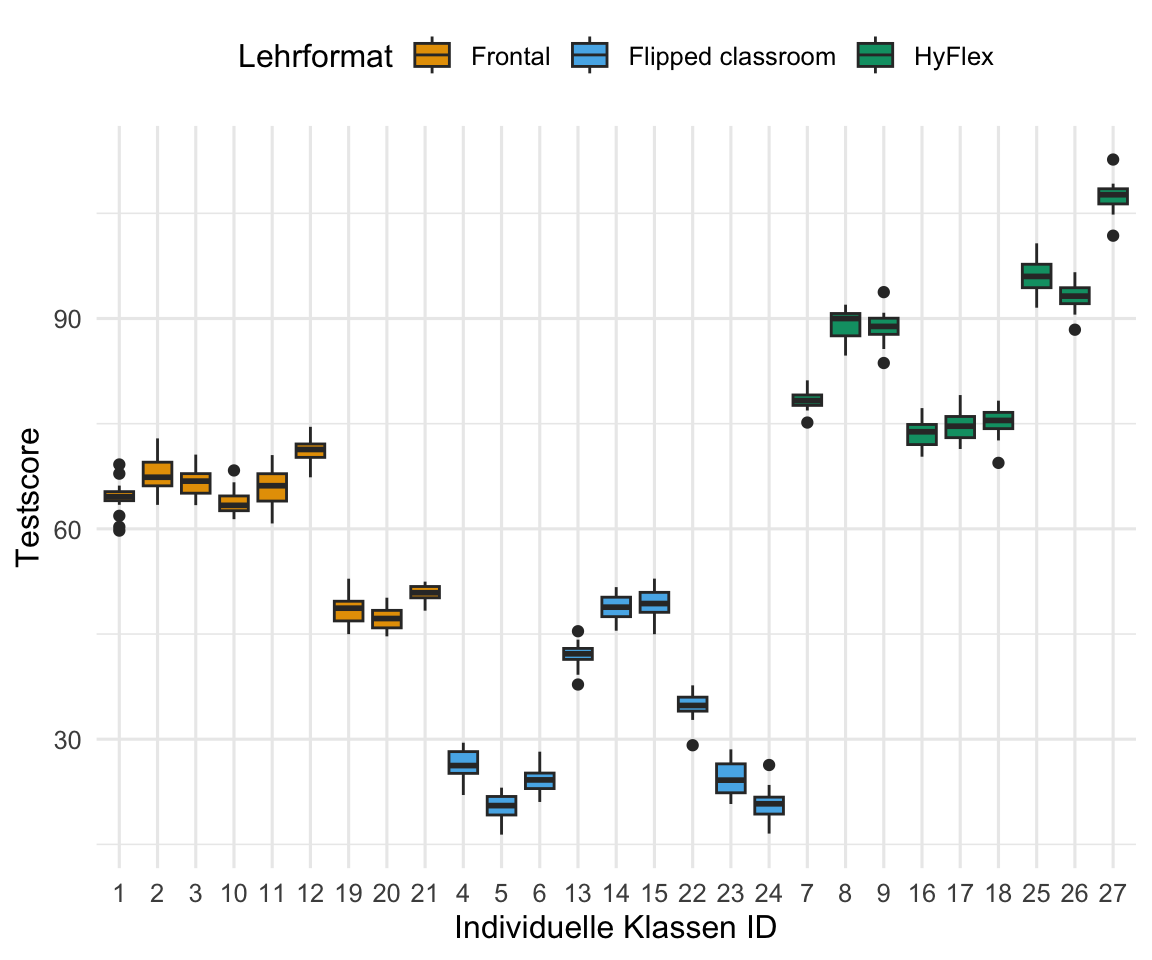
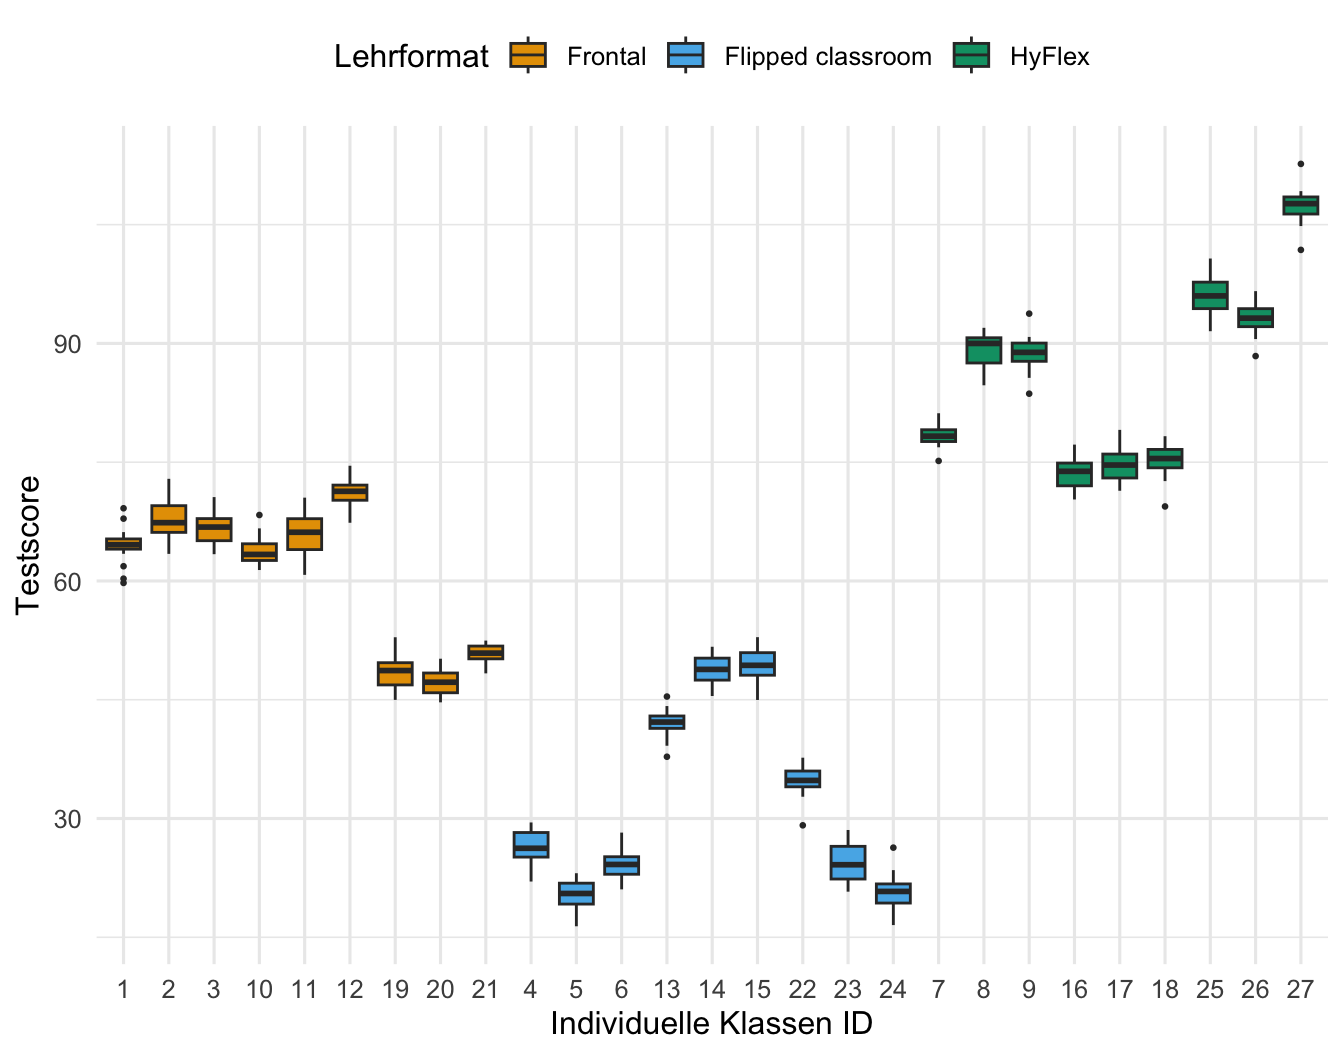
better figures

diff --git a/docs/stat-modeling-mixed.html b/docs/stat-modeling-mixed.html
@@ -751,7 +751,7 @@ div.csl-indent {
 
 </header>
 
-<p><em>Letzte Änderung am 10. December 2023 um 12:58:22</em></p>
+<p><em>Letzte Änderung am 10. December 2023 um 13:15:44</em></p>
 <blockquote class="blockquote">
 <p><em>“Wer die Arbeit kennt und sich nicht drückt, der ist verrückt.” — Tick, Trick und Track</em></p>
 </blockquote>
@@ -1346,7 +1346,7 @@ Generierung von Schuldaten (3-faktoriell)
 <div class="cell-output-display">
 <div id="fig-mixed-school-1" class="quarto-figure quarto-figure-center anchored">
 <figure class="figure">
-<p><img src="stat-modeling-mixed_files/figure-html/fig-mixed-school-1-1.png" class="img-fluid figure-img" width="480"></p>
+<p><img src="stat-modeling-mixed_files/figure-html/fig-mixed-school-1-1.png" class="img-fluid figure-img" width="672"></p>
 <figcaption class="figure-caption">Abbildung&nbsp;49.5— Histogramm des Testscores über alle Datenpunkte zur Überprüfung der Annahme der Normalverteilung. Wir sehen eine approximative Normalverteilung des Testscores.</figcaption>
 </figure>
 </div>
@@ -1365,7 +1365,7 @@ Generierung von Schuldaten (3-faktoriell)
 <div class="cell-output-display">
 <div id="fig-mixed-school-3" class="quarto-figure quarto-figure-center anchored">
 <figure class="figure">
-<p><img src="stat-modeling-mixed_files/figure-html/fig-mixed-school-3-1.png" class="img-fluid figure-img" width="480"></p>
+<p><img src="stat-modeling-mixed_files/figure-html/fig-mixed-school-3-1.png" class="img-fluid figure-img" width="672"></p>
 <figcaption class="figure-caption">Abbildung&nbsp;49.6— Histogramm des Testscores über alle Datenpunkte zur Überprüfung der Annahme der Normalverteilung. Wir sehen eine approximative Normalverteilung des Testscores.</figcaption>
 </figure>
 </div>
@@ -1373,14 +1373,14 @@ Generierung von Schuldaten (3-faktoriell)
 </div>
 <div class="cell" data-layout-align="center">
 <div class="sourceCode cell-code" id="cb10"><pre class="sourceCode r code-with-copy"><code class="sourceCode r"><span id="cb10-1"><a href="#cb10-1" aria-hidden="true" tabindex="-1"></a><span class="fu">ggplot</span>(school_tbl, <span class="fu">aes</span>(<span class="at">x =</span> class_id, <span class="at">y =</span> test, <span class="at">fill =</span> trt)) <span class="sc">+</span></span>
-<span id="cb10-2"><a href="#cb10-2" aria-hidden="true" tabindex="-1"></a>  <span class="fu">geom_boxplot</span>() <span class="sc">+</span></span>
+<span id="cb10-2"><a href="#cb10-2" aria-hidden="true" tabindex="-1"></a>  <span class="fu">geom_boxplot</span>(<span class="at">outlier.size =</span> <span class="fl">0.5</span>) <span class="sc">+</span></span>
 <span id="cb10-3"><a href="#cb10-3" aria-hidden="true" tabindex="-1"></a>  <span class="fu">labs</span>(<span class="at">x =</span> <span class="st">"Individuelle Klassen ID"</span>, <span class="at">y =</span> <span class="st">"Testscore"</span>, <span class="at">fill =</span> <span class="st">"Lehrformat"</span>) <span class="sc">+</span></span>
 <span id="cb10-4"><a href="#cb10-4" aria-hidden="true" tabindex="-1"></a>  <span class="fu">scale_fill_okabeito</span>() <span class="sc">+</span></span>
 <span id="cb10-5"><a href="#cb10-5" aria-hidden="true" tabindex="-1"></a>  <span class="fu">theme</span>(<span class="at">legend.position =</span> <span class="st">"top"</span>)</span></code><button title="In die Zwischenablage kopieren" class="code-copy-button"><i class="bi"></i></button></pre></div>
 <div class="cell-output-display">
 <div id="fig-mixed-school-2" class="quarto-figure quarto-figure-center anchored">
 <figure class="figure">
-<p><img src="stat-modeling-mixed_files/figure-html/fig-mixed-school-2-1.png" class="img-fluid figure-img" width="576"></p>
+<p><img src="stat-modeling-mixed_files/figure-html/fig-mixed-school-2-1.png" class="img-fluid figure-img" width="672"></p>
 <figcaption class="figure-caption">Abbildung&nbsp;49.7— Histogramm des Testscores über alle Datenpunkte zur Überprüfung der Annahme der Normalverteilung. Wir sehen eine approximative Normalverteilung des Testscores.</figcaption>
 </figure>
 </div>
